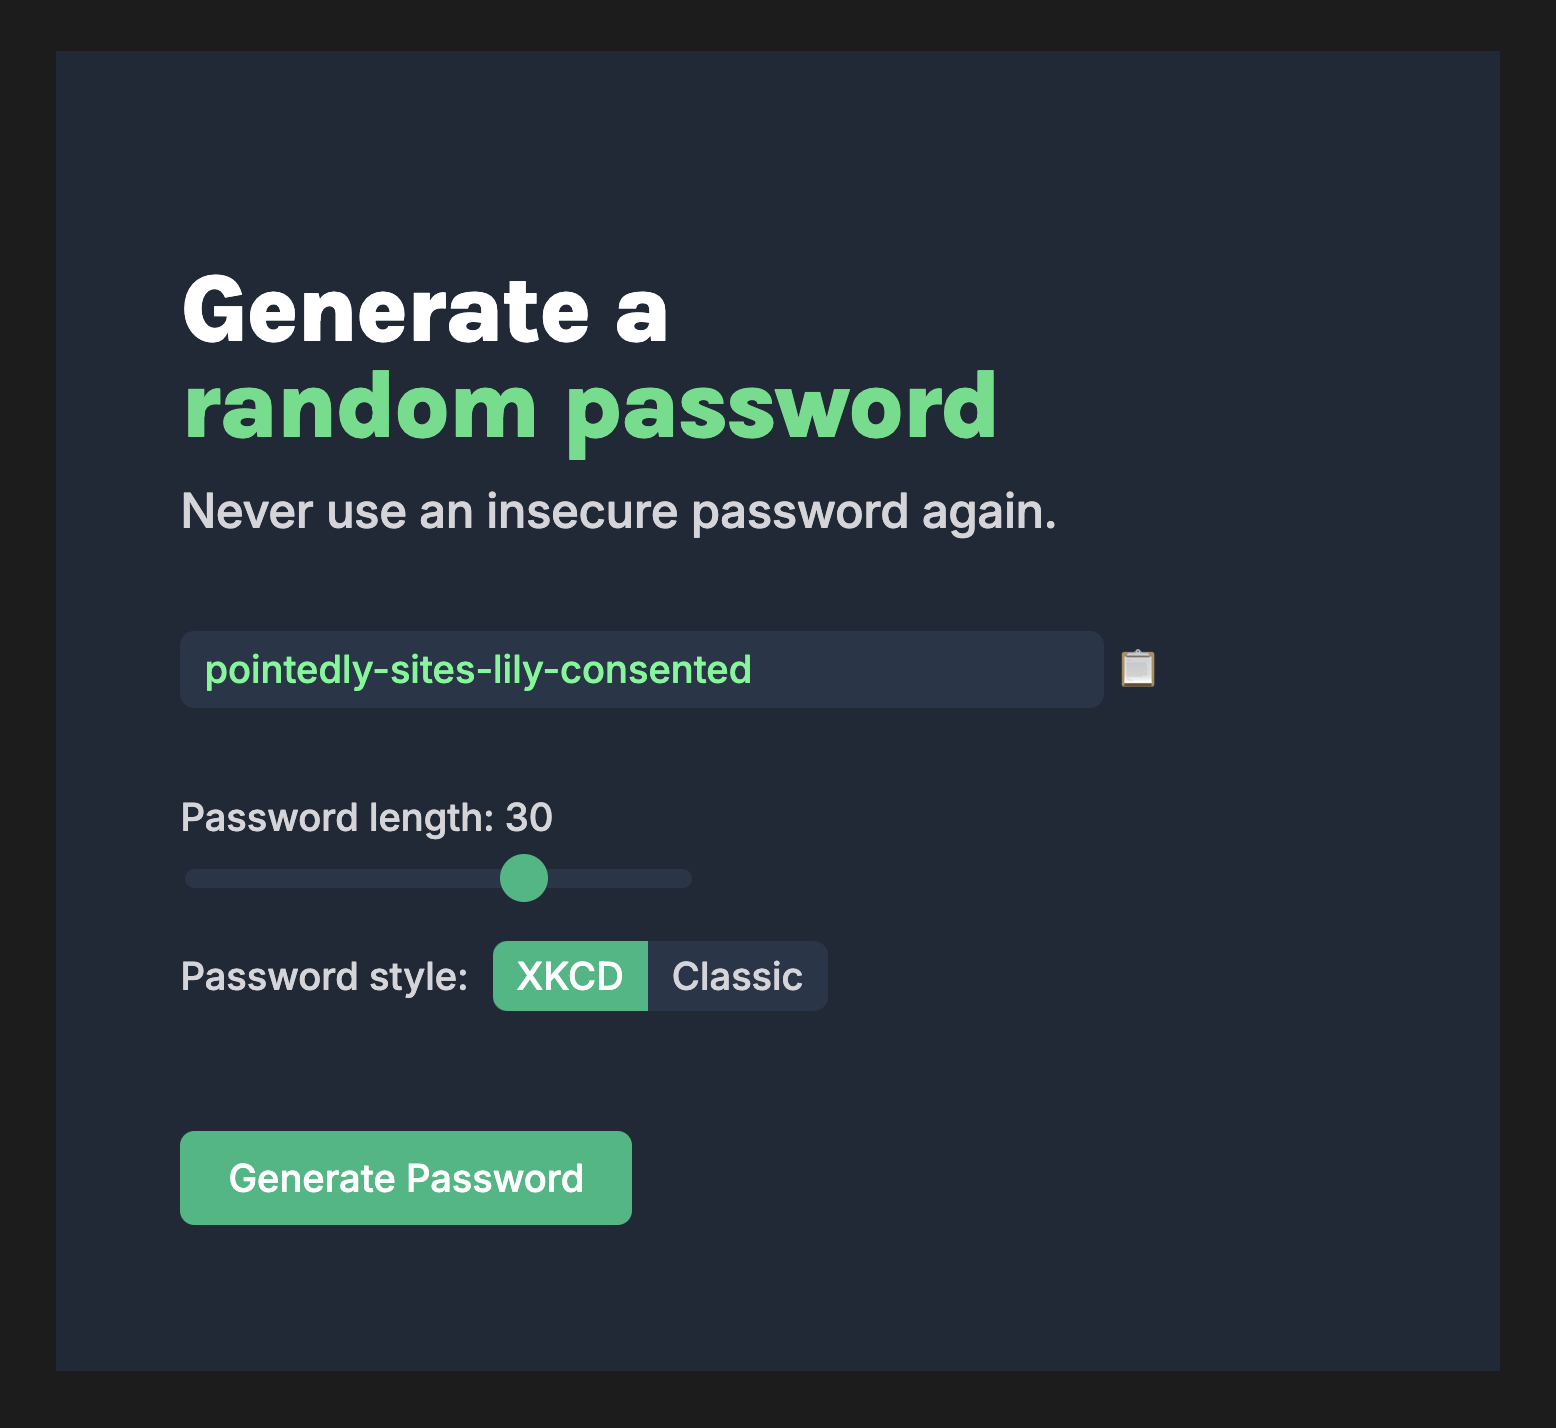
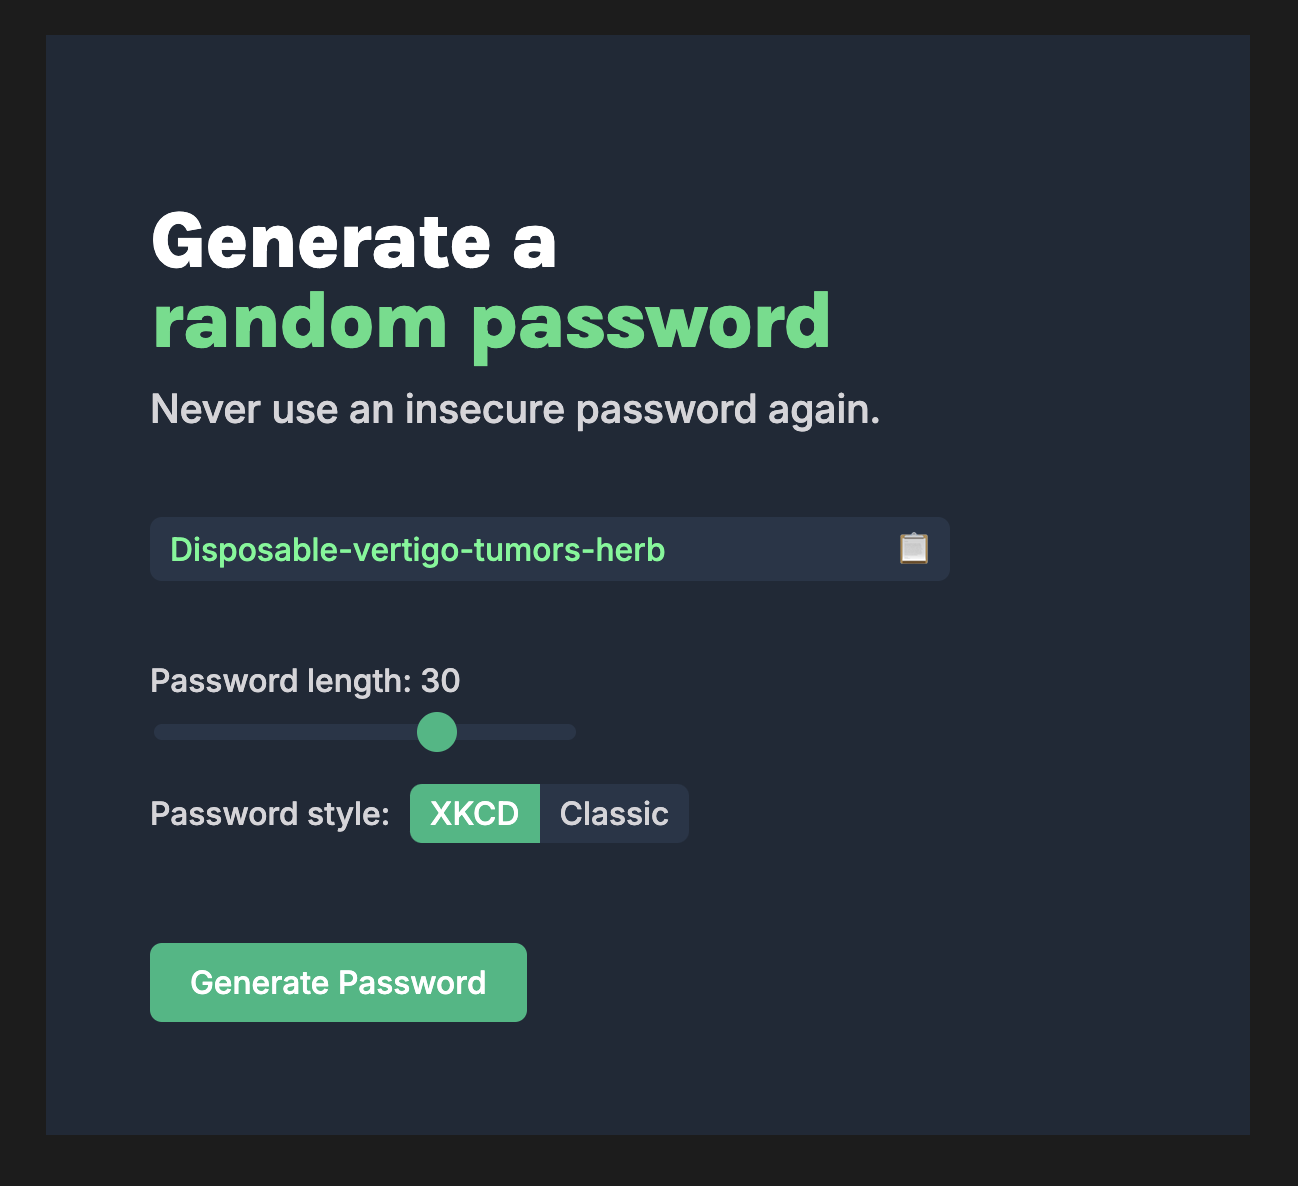
Visual change for copy to clipboard button, auto-capitalize first letter

diff --git a/style.css b/style.css
@@ -38,9 +38,10 @@ body {
 }
 
 #password-container {
-    display: flex;
-    justify-content: start;
-    align-items: center;
+    position: relative;
+    margin-top: 20px;
+    margin-bottom: 20px;
+    width: 400px;
 }
 
 #password {
@@ -49,35 +50,40 @@ body {
     font-weight: 500;
     color: #55F991;
     background: #273549;
-    width: 375px;
+    width: 100%;
     height: 32px;
     border-radius: 6px;
     display: flex;
-    justify-content: start;
     align-items: center;
-
-    padding-left: 10px;
+    padding: 0 40px 0 10px; /* Right padding for button */
+    margin: 0;
+    box-sizing: border-box;
+    overflow: hidden;
+    text-overflow: ellipsis;
+    white-space: nowrap;
 }
 
 #copy-button {
+    position: absolute;
+    right: 0;
+    top: 0;
+    height: 100%;
     font-family: "Inter", sans-serif;
     font-size: 16px;
     font-weight: 500;
-    background-color: #1F2937;
-    color: #fff;
+    background-color: transparent;
     border: none;
-    display: flex;
-    justify-content: start;
-    align-items: center;
-    height: 32px;
-    padding: 0px 6px;
-    border-radius: 6px;
+    padding: 0 10px;
     cursor: pointer;
-    transition: transform 0.2s;
+    transition: background-color 0.2s;
+}
+
+#copy-button:hover {
+    background-color: rgba(255, 255, 255, 0.1);
 }
 
 #copy-button:active {
-    transform: scale(0.9);
+    background-color: rgba(255, 255, 255, 0.2);
 }
 
 #generate-password {
@@ -184,6 +190,6 @@ body {
     100% { background-color: #273549; }
 }
 
-#password.password-generated {
+#password.password-highlight-animation {
     animation: highlight 0.3s ease-in-out;
 }

diff --git a/script.js b/script.js
@@ -35,6 +35,7 @@ function generatePassword() {
                 password += spacerChar;
                 remainingLength--;
             }
+            password = password.charAt(0).toUpperCase() + password.slice(1);
         }
     } else {
         for (let i = 0; i < passwordLength; i++) {
@@ -43,21 +44,17 @@ function generatePassword() {
         }
     }
 
-    // Animate the password generation
     const passwordElement = document.getElementById("password");
     passwordElement.textContent = password;
-    passwordElement.classList.add('password-generated');
-    setTimeout(() => passwordElement.classList.remove('password-generated'), 300);
 }
 
 function copyPassword() {
     const passwordElement = document.getElementById("password");
     const password = passwordElement.textContent;
-    const copyButton = document.getElementById("copy-button");
     navigator.clipboard.writeText(password)
         .then(() => {
-            copyButton.textContent = '✅';
-            setTimeout(() => copyButton.textContent = '📋', 750);
+            passwordElement.classList.add('password-highlight-animation');
+            setTimeout(() => passwordElement.classList.remove('password-highlight-animation'), 300);
         })
         .catch(err => {
             console.error('Failed to copy: ', err);
